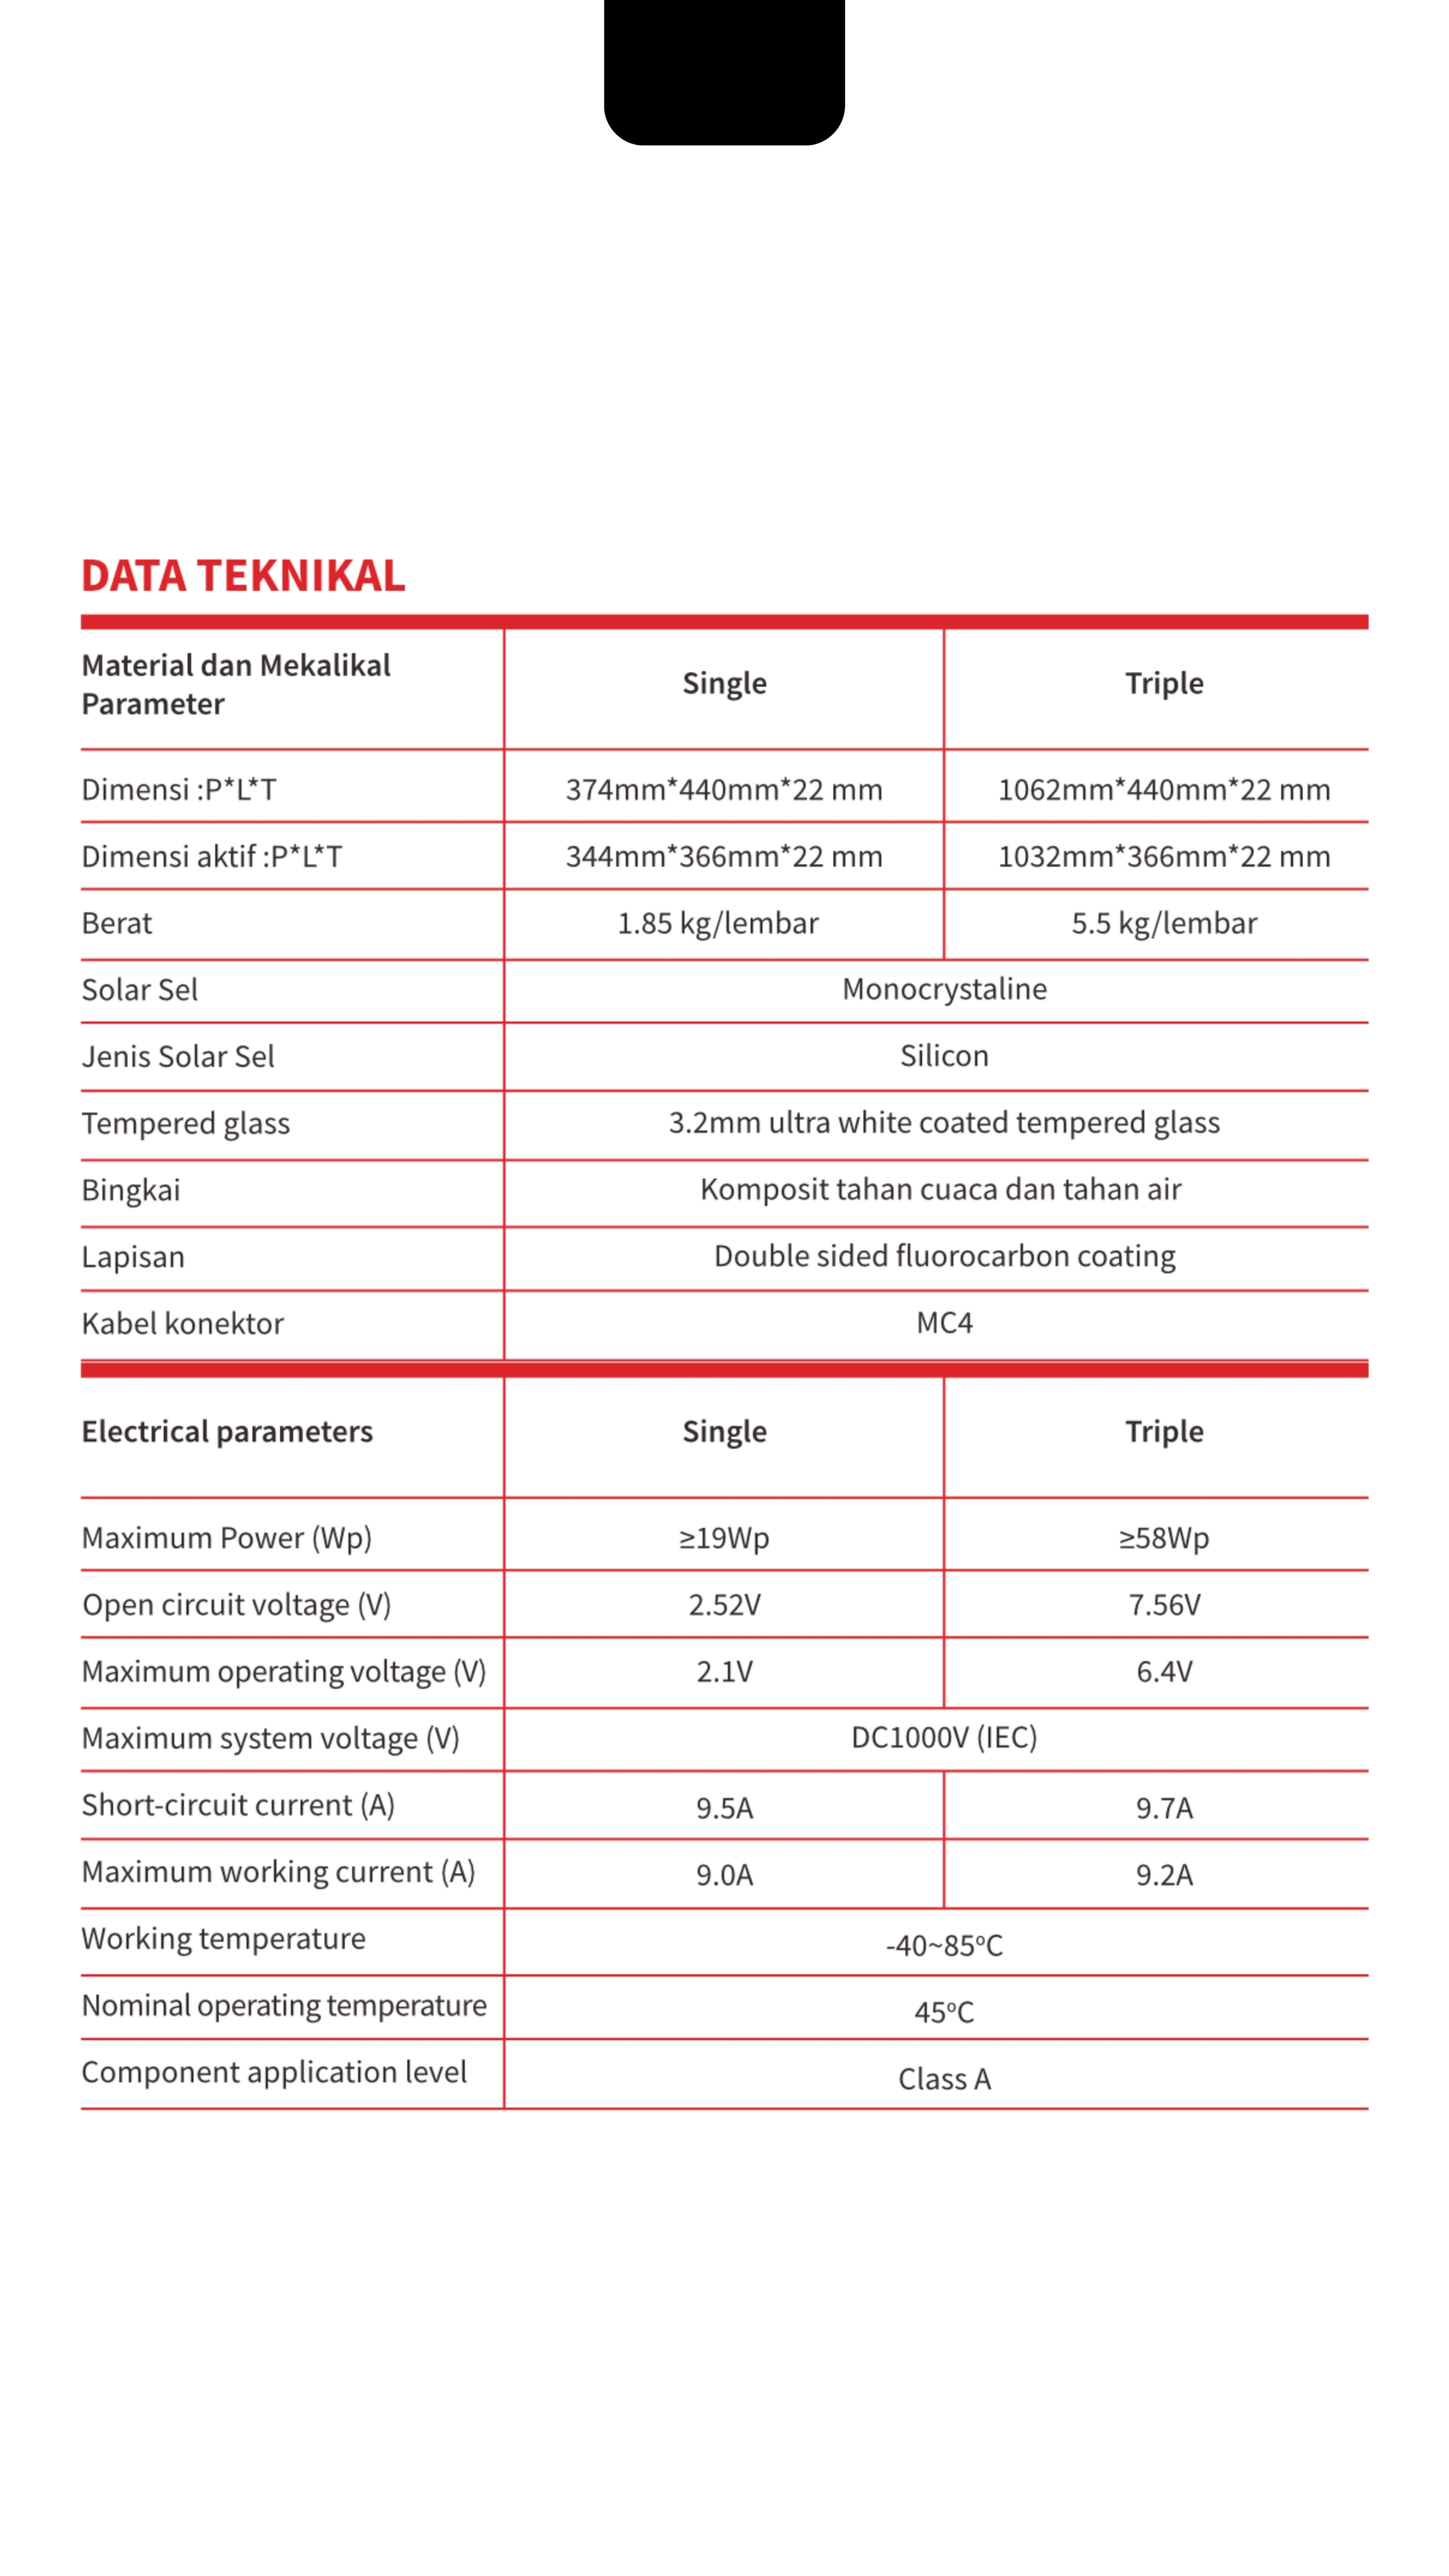
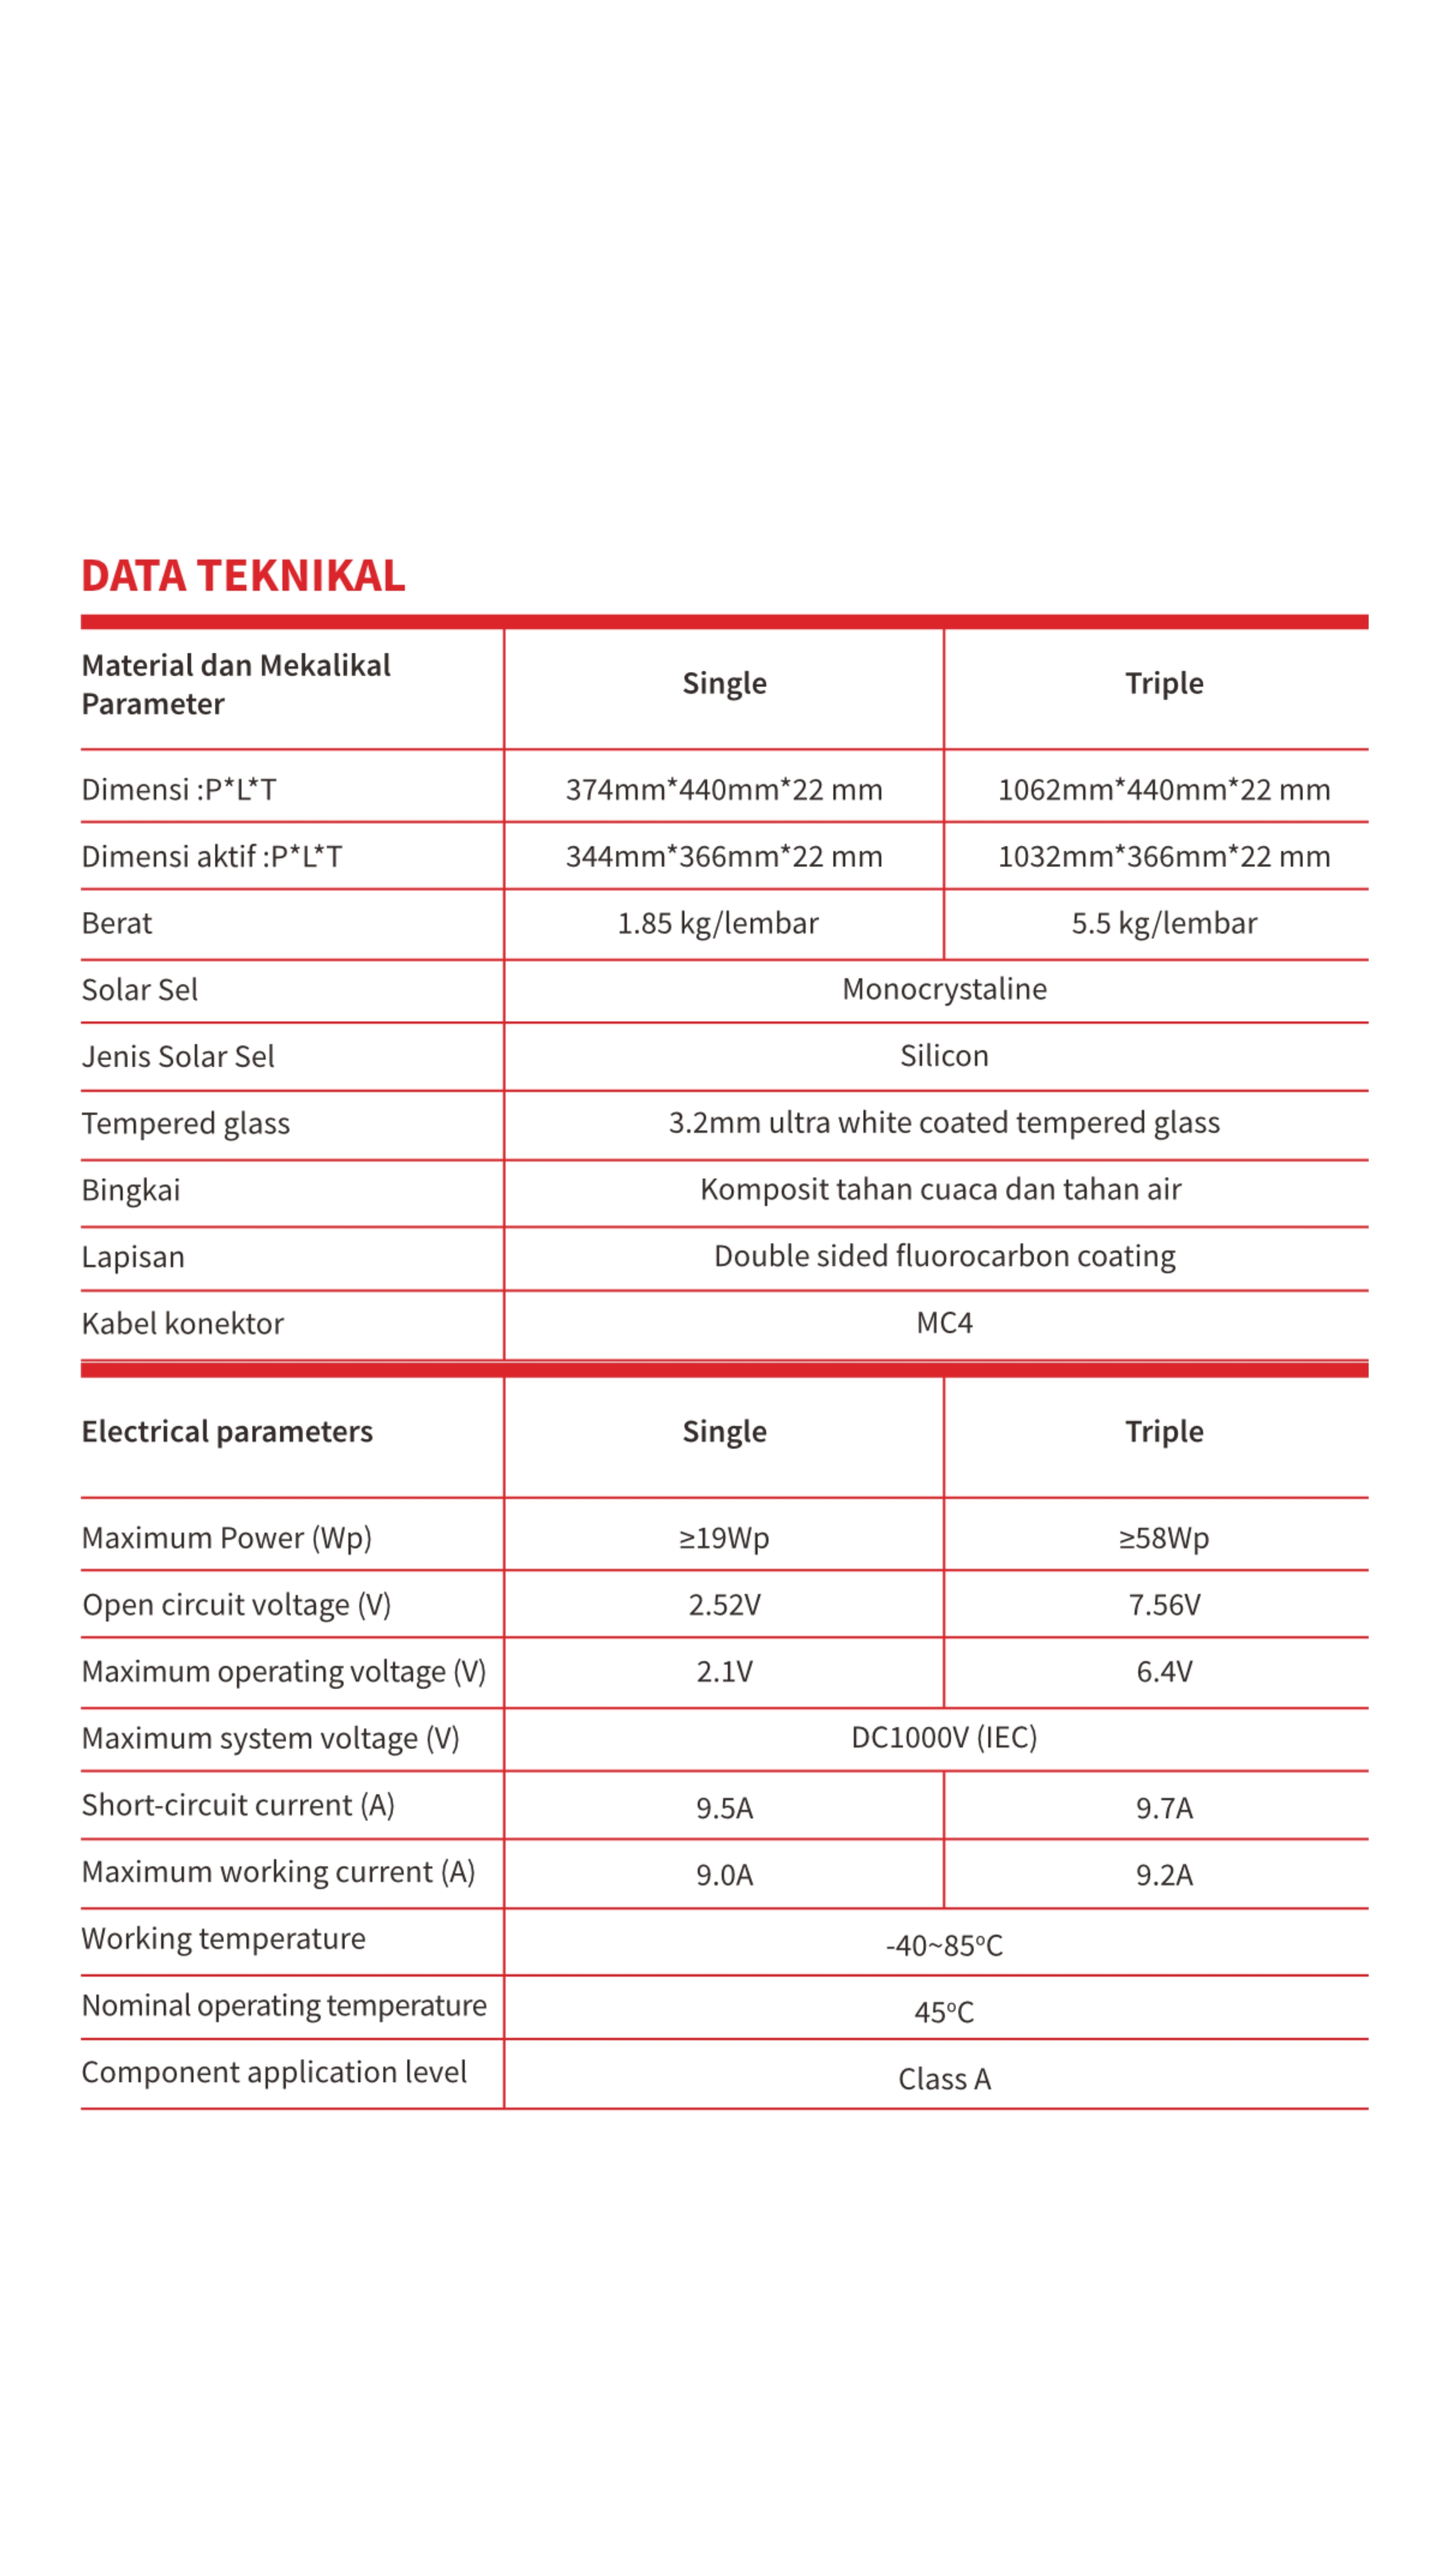
push lagi lagi

Changed region(s): [[0.4044, 0.0, 0.5911, 0.0623]]

diff --git a/aksesoris.html b/aksesoris.html
@@ -86,9 +86,12 @@
       font-size: 24px;
       color: white;
       padding: 3px 3px;
-      border-radius: 50%;
       cursor: pointer;
       transition: background 0.3s;
+      width: 20%;
+      text-align: center;
+      background-color: black;
+      border-radius: 0px 0px 8px 8px;
     }
 
     .home-button:hover {

diff --git a/data-teknikal.html b/data-teknikal.html
@@ -86,9 +86,12 @@
       font-size: 24px;
       color: white;
       padding: 3px 3px;
-      border-radius: 50%;
       cursor: pointer;
       transition: background 0.3s;
+      width: 20%;
+      text-align: center;
+      background-color: black;
+      border-radius: 0px 0px 8px 8px;
     }
 
     .home-button:hover {

diff --git a/spesifikasi.html b/spesifikasi.html
@@ -86,9 +86,12 @@
       font-size: 24px;
       color: white;
       padding: 3px 3px;
-      border-radius: 50%;
       cursor: pointer;
       transition: background 0.3s;
+      width: 20%;
+      text-align: center;
+      background-color: black;
+      border-radius: 0px 0px 8px 8px;
     }
 
     .home-button:hover {

diff --git a/spesifikasi2.html b/spesifikasi2.html
@@ -86,9 +86,12 @@
       font-size: 24px;
       color: white;
       padding: 3px 3px;
-      border-radius: 50%;
       cursor: pointer;
       transition: background 0.3s;
+      width: 20%;
+      text-align: center;
+      background-color: black;
+      border-radius: 0px 0px 8px 8px;
     }
 
     .home-button:hover {
